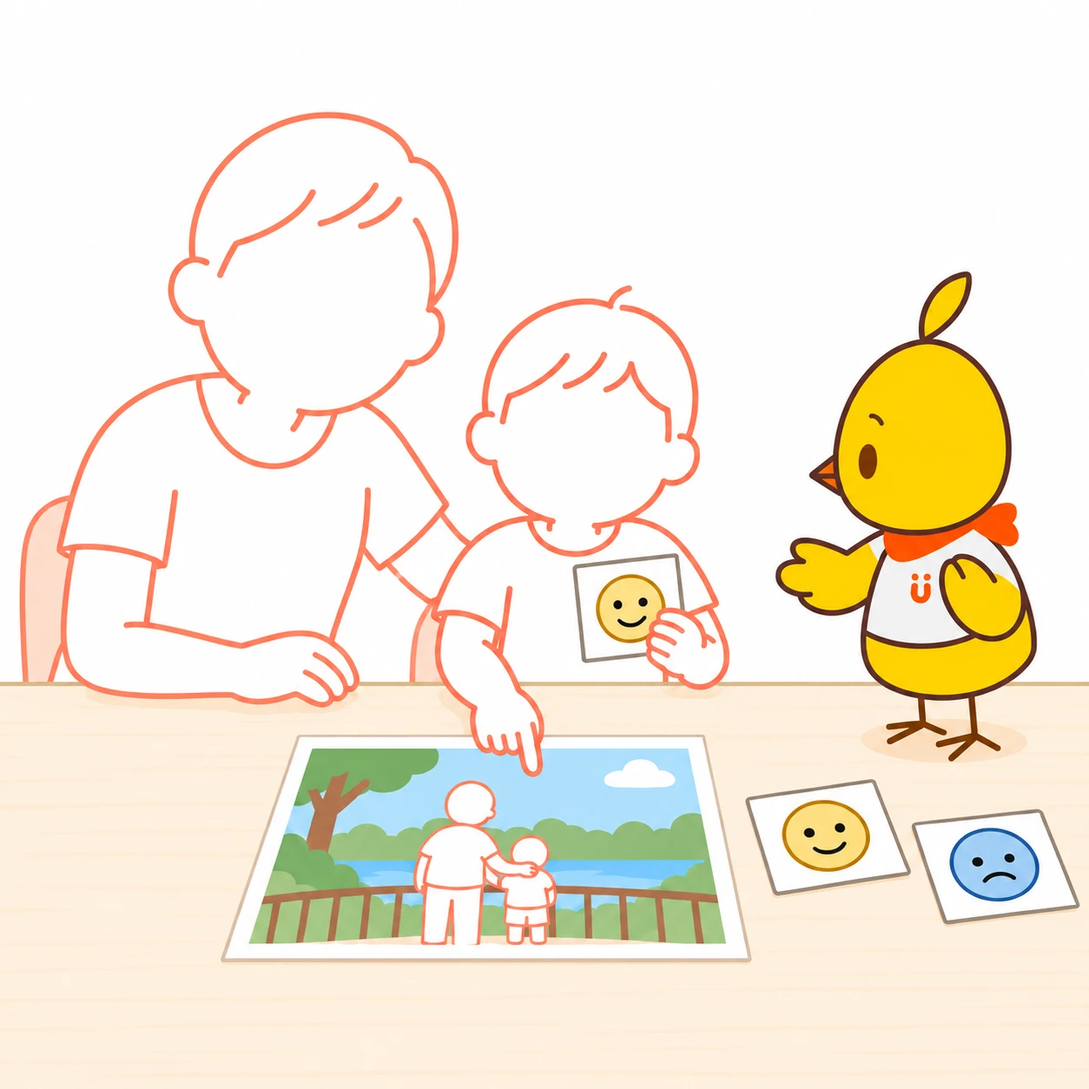
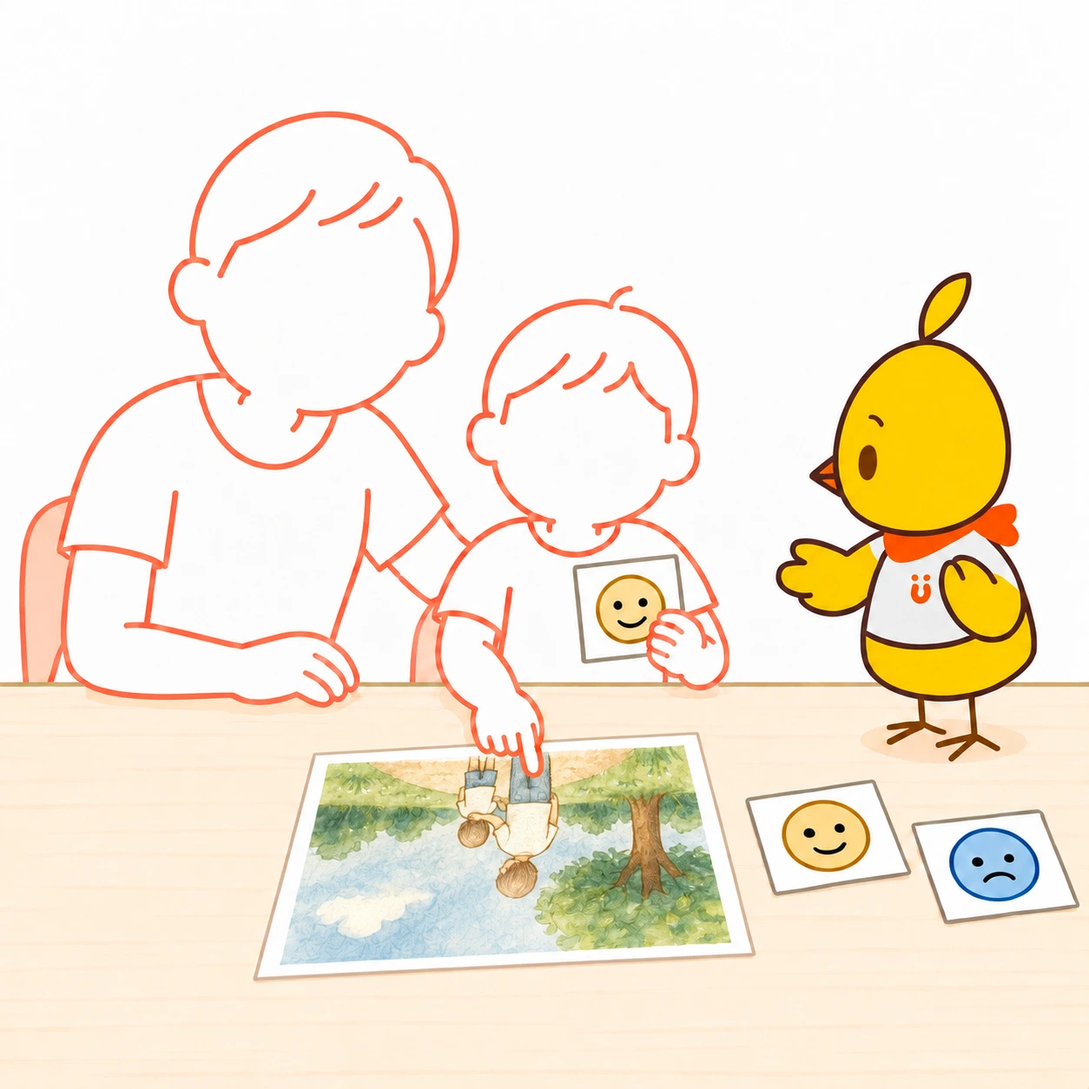
Update Mimo and Luke picture book scene artwork

diff --git a/stories/hello-mimo/index.html b/stories/hello-mimo/index.html
@@ -1,7 +1,7 @@
 <!doctype html><html lang="ja"><head><meta charset="utf-8"><meta name="viewport" content="width=device-width,initial-scale=1"><meta name="theme-color" content="#fffdf9"><meta name="description" content="歌もおしゃべりも大好きなMimo。子どもの声や仕草に耳をすませ、ときには待ちすぎてしまう、自己紹介の絵本。"><title>こんにちは、ミモです。 | HugMap Stories</title><link rel="stylesheet" href="../base.css"><link rel="stylesheet" href="styles.css?3730cc56ad"><link rel="canonical" href="https://withuai.com/stories/hello-mimo/"><meta property="og:title" content="こんにちは、ミモです。 | HugMap Stories"><meta property="og:type" content="website"><link rel="stylesheet" href="../intro-webtoon.css?7066c42a14"></head><body class="webtoon" data-buddy="mimo"><header class="story-header"><a class="brand" href="/stories/">HugMap <span>Stories</span></a><button id="textToggle" aria-pressed="false">文字を大きく</button></header><nav class="progress" aria-label="物語の進み具合"><span id="progressLabel">はじまり</span><span class="track"><span id="progressFill"></span></span><span id="progressCount">0 / 10</span></nav><main><section class="panel cover" id="cover" data-step="0"><div class="copy"><p class="eyebrow">HUGMAP · はじめましての絵本</p><h1>こんにちは、<br><em>ミモ</em>です。</h1><p class="lead">きみのおはなし、<br>聞かせてね。</p><a class="start cover-arrow" href="#scene-1" aria-label="読みはじめる"><span aria-hidden="true">↓</span></a></div><figure><img id="coverMimo" src="assets/mimo-hello.webp" alt="絵本を持ち、片翼を上げてあいさつするMimo" fetchpriority="high" width="1024" height="1536"></figure></section>
-<section class="panel scene rhythm-split tone-1 " id="scene-1" data-step="1"><div class="copy"><p class="eyebrow" aria-label="1ページ">01</p><h2>うたうの、だいすき。</h2><p class="story-text">おしゃべりも、すき。</p></div><figure><img src="assets/mimo-hello.webp" alt="お気に入りの絵本を持ってあいさつするMimo" loading="lazy" width="1024" height="1536"></figure>
+<section class="panel scene rhythm-split tone-1 " id="scene-1" data-step="1"><div class="copy"><p class="eyebrow" aria-label="1ページ">01</p><h2>うたうの、だいすき。</h2><p class="story-text">おしゃべりも、すき。</p></div><figure><img src="assets/mimo-karaoke.webp" alt="マイクを持ち、片翼でリズムを取りながら楽しそうに歌うMimo" loading="lazy" width="1024" height="1536"></figure>
 <div class="story-beat"><p class="story-text">でもね、<br>きみの おはなしが はじまると、<br>もっと 聞きたく なっちゃう。</p></div><a class="next" href="#scene-2" aria-label="次のページへ">↓</a></section>
-<section class="panel scene rhythm-after tone-2 reverse" id="scene-2" data-step="2"><div class="copy"><p class="eyebrow" aria-label="2ページ">02</p><h2>いろんな おはなし、<br>聞こえてくるよ。</h2><p class="story-text">きみが「あー」。<br>わたしも「あー」。</p></div><figure><img src="assets/mimo-voice-pingpong.webp" alt="子どもとMimoの間を、声を表すオレンジの点が行き来する" loading="lazy" width="1254" height="1254"></figure><div class="story-beat"><p class="story-text">こんどは「うー」。<br>わたしも「うー」。<br><br>ふふ。声が いったり、きたり。</p></div>
+<section class="panel scene rhythm-after tone-2 reverse" id="scene-2" data-step="2"><div class="copy"><p class="eyebrow" aria-label="2ページ">02</p><h2>いろんな おはなし、<br>聞こえてくるよ。</h2><p class="story-text">きみが「あー」。<br>わたしも「あー」。</p></div><figure><img src="assets/mimo-voice-pingpong.webp?82cca80c83" alt="子どもとMimoの口元の短い波線が、声を出してまねし合う様子を表す" loading="lazy" width="1254" height="1254"></figure><div class="story-beat"><p class="story-text">こんどは「うー」。<br>わたしも「うー」。<br><br>ふふ。声が いったり、きたり。</p></div>
 <a class="next" href="#scene-imitation" aria-label="次のページへ">↓</a></section>
 <section class="panel scene rhythm-split tone-0" id="scene-imitation" data-step="3"><div class="copy"><p class="eyebrow" aria-label="3ページ">03</p><h2>きみが ばんざい。<br>わたしも ばんざい。</h2><p class="story-text">その うごき、おもしろいね。<br>もういっかい、やってみよう。</p></div><figure><img src="assets/mimo-imitation-arms-up.webp" alt="両手を上げる子どもを見て、ミモも両翼を上げてまねしている" loading="lazy" width="1254" height="1254"></figure>
 <div class="story-beat"><p class="story-text">ふふ。おんなじだね。</p></div><a class="next" href="#scene-3" aria-label="次のページへ">↓</a></section>
@@ -11,7 +11,7 @@
 <div class="story-beat"><p class="story-text">これが いいんだね。<br>いっしょに 読もう。</p></div><a class="next" href="#scene-5" aria-label="次のページへ">↓</a></section>
 <section class="panel scene rhythm-split tone-2 " id="scene-5" data-step="6"><div class="copy"><p class="eyebrow" aria-label="6ページ">06</p><h2>ページを ひらくと。</h2><p class="story-text">きみの ゆびが、ぴたっ。<br>ああ、そこに なにか いたんだね。</p></div><figure class="bubble-art bubble-art-5"><span class="speech-bubble curious" role="note" aria-label="ミモの声：どれ、どれ？">どれ、どれ？</span><img src="assets/mimo-shared-reading.webp" alt="親子が開いた絵本を子どもが指し、隣のMimoも一緒に見ている" loading="lazy" width="1254" height="1254"></figure>
 <div class="story-beat"><p class="story-text">わたしも 見たくて、<br>つい、近づいちゃう。</p></div><a class="next" href="#scene-6" aria-label="次のページへ">↓</a></section>
-<section class="panel scene rhythm-split tone-0 reverse" id="scene-6" data-step="7"><div class="copy"><p class="eyebrow" aria-label="7ページ">07</p><h2>こんどは、<br>きみの おはなし。</h2><p class="story-text">写真も 見せてくれた。<br>「それで？」「そのあと？」</p></div><figure><img src="assets/mimo-experience-feeling.webp" alt="子どもが写真を指し、気持ちのカードを持つ。保護者とMimoが一緒に見る" loading="lazy" width="1254" height="1254"></figure>
+<section class="panel scene rhythm-split tone-0 reverse" id="scene-6" data-step="7"><div class="copy"><p class="eyebrow" aria-label="7ページ">07</p><h2>こんどは、<br>きみの おはなし。</h2><p class="story-text">写真も 見せてくれた。<br>「それで？」「そのあと？」</p></div><figure><img src="assets/mimo-experience-feeling.webp?69d5510f14" alt="子どもが写真を指し、気持ちのカードを持つ。保護者とMimoが一緒に見る" loading="lazy" width="1254" height="1254"></figure>
 <div class="story-beat"><p class="story-text">……おっと。<br>きみは、まだ 伝えている とちゅう。<br>わたしは、ちょっと 待とう。</p></div><a class="next" href="#scene-7" aria-label="次のページへ">↓</a></section>
 <section class="panel scene rhythm-pause tone-1 " id="scene-7" data-step="8"><div class="copy"><p class="eyebrow" aria-label="8ページ">08</p><h2>おはなしの あとは、<br>もういちど 絵本。</h2><p class="story-text">わたしは、のんびり 待っていた。<br>絵本は、まだ 閉じたまま。</p></div><figure class="bubble-art bubble-art-7"><span class="thought-bubble thought-first" role="note" aria-label="ミモの心の声：まだかな……">まだかな……</span><span class="thought-bubble thought-second" role="note" aria-label="ミモの心の声：もうすこし……">もうすこし……</span><img src="assets/mimo-wait-too-long.webp" alt="閉じた絵本を脇に置いたまま、椅子で翼を重ねてのんびり待っているMimo" loading="lazy" width="1536" height="1024"></figure>
 <div class="story-beat"><p class="story-text">あれ？<br>きみも、待ってるの？</p></div><a class="next" href="#scene-8" aria-label="次のページへ">↓</a></section>
@@ -19,4 +19,4 @@
 <div class="copy"><p class="eyebrow" aria-label="9ページ">09</p><h2>ふふ。<br>待ちすぎちゃった。</h2><p class="story-text">わたしが 読むのを、<br>待っていて くれたんだね。<br><br>絵本を ひらいて――<br>では、はじまり はじまり。</p></div><a class="next" href="#scene-9" aria-label="次のページへ">↓</a></section>
 <section class="panel scene rhythm-after tone-0 " id="scene-9" data-step="10"><div class="copy"><p class="eyebrow" aria-label="10ページ">10</p><h2>わたしの おはなし、<br>聞いてくれて ありがとう。</h2></div><figure><img src="assets/mimo-shared-reading.webp" alt="親子とMimoが一冊の絵本を囲んでいる" loading="lazy" width="1254" height="1254"></figure>
 <div class="story-beat"><p class="story-text">声でも、ゆびでも、しぐさでも。<br>きみの おはなし、<br>また 聞かせてね。</p></div><a class="next" href="#afterword" aria-label="次のページへ">↓</a></section>
-<section class="afterword" id="afterword" data-step="11"><p class="eyebrow">おはなしの あとに</p><h2>ことばになる前の「伝えたい」も、<br>いっしょに。</h2><p>Mimoは、子どもが大好き。声をまねしたり、同じものを見つけたり、一緒に笑ったり。そんなやりとりがうれしくて、もっと知りたくなります。声も、視線も、仕草も、その子の気持ちに出会う入り口です。</p><p>「いつ、お話ししてくれるかな」。待ち遠しくて、焦る日もあります。そんなときは、言えたことばだけでなく、こちらを見たこと、指で教えてくれたこと、一緒に楽しめたことにも目を向けてみませんか。ことばの育ちには、それぞれの時間があります。今日の小さなやりとりも、大切なひとときです。</p><p>Mimoは、ちょっとのんきに見えるかもしれません。でも、一緒に笑ったこと、声をかけ合ったこと、その一つひとつが、その子らしい「伝えたい」の芽を育むと信じています。小さな応答を見つけるたびに、うれしくなるMimo。「今日は、こんなお話ができたね」。そんな喜びを、子どもとも、おうちの人とも、分かち合っていきたいのです。</p><div class="end-links"><a href="/stories/">絵本の一覧へ</a><a href="/#wv-discover">HugMapでできること →</a><a class="start" href="#cover">もういちど読む ↑</a><a href="../hello-luke/index.html#cover">ルークの自己紹介へ →</a><a href="../hello-gen/index.html#cover">ゲンの自己紹介へ →</a></div><p class="colophon">HugMap Stories · Mimoの自己紹介</p></section></main><script src="paper-cutout.js"></script><script src="story.js"></script></body></html>
+<section class="afterword" id="afterword" data-step="11"><p class="eyebrow">おはなしの あとに</p><h2>ことばになる前の「伝えたい」も、<br>いっしょに。</h2><p>Mimoは、子どもが大好き。声をまねしたり、同じものを見つけたり、一緒に笑ったり。そんなやりとりがうれしくて、もっと知りたくなります。声も、視線も、仕草も、その子の気持ちに出会う入り口です。</p><p>「いつ、お話ししてくれるかな」。待ち遠しくて、焦る日もあります。そんなときは、言えたことばだけでなく、こちらを見たこと、指で教えてくれたこと、一緒に楽しめたことにも目を向けてみませんか。ことばの育ちには、それぞれの時間があります。今日の小さなやりとりも、大切なひとときです。</p><p>Mimoは、ちょっとのんきに見えるかもしれません。でも、一緒に笑ったこと、声をかけ合ったこと、その一つひとつが、その子らしい「伝えたい」の芽を育むと信じています。小さな応答を見つけるたびに、うれしくなるMimo。「今日は、こんなお話ができたね」。そんな喜びを、子どもとも、おうちの人とも、分かち合っていきたいのです。</p><div class="end-links"><a href="/stories/">絵本の一覧へ</a><a href="/#wv-discover">HugMapでできること →</a><a class="start" href="#cover">もういちど読む ↑</a><a href="../hello-luke/index.html#cover">ルークの自己紹介へ →</a><a href="../hello-gen/index.html#cover">ゲンの自己紹介へ →</a></div><p class="colophon">HugMap Stories · Mimoの自己紹介</p></section></main><script src="paper-cutout.js?ddc414cf6f"></script><script src="story.js"></script></body></html>

diff --git a/en/stories/hello-mimo/index.html b/en/stories/hello-mimo/index.html
@@ -1,7 +1,7 @@
 <!doctype html><html lang="en"><head><meta charset="utf-8"><meta name="viewport" content="width=device-width,initial-scale=1"><meta name="theme-color" content="#fffdf9"><meta name="description" content="Meet Mimo, who loves songs, conversation and listening to children—and sometimes waits a little too long."><title>Hello, I’m Mimo. | HugMap Stories</title><link rel="stylesheet" href="../../../stories/base.css"><link rel="stylesheet" href="../../../stories/hello-mimo/styles.css?3730cc56ad"><link rel="stylesheet" href="../intro-english.css"><link rel="canonical" href="https://withuai.com/en/stories/hello-mimo/"><link rel="alternate" hreflang="en" href="https://withuai.com/en/stories/hello-mimo/"><link rel="alternate" hreflang="ja" href="https://withuai.com/stories/hello-mimo/"><link rel="stylesheet" href="../../../stories/intro-webtoon.css?7066c42a14"></head><body class="webtoon" data-buddy="mimo"><header class="story-header"><a class="brand" href="../">HugMap <span>Stories</span></a><a class="language-link" href="../../../stories/hello-mimo/index.html" lang="ja" aria-label="Read in Japanese">日本語</a><button id="textToggle" aria-pressed="false">Larger text</button></header><nav class="progress" aria-label="Story progress"><span id="progressLabel">Start</span><span class="track"><span id="progressFill"></span></span><span id="progressCount">0 / 10</span></nav><main><section class="panel cover" id="cover" data-step="0"><div class="copy"><p class="eyebrow">HUGMAP · MEET THE BUDDIES</p><h1>Hello,<br>I’m <em>Mimo</em>.</h1><p class="lead">I’d love to hear<br>what you have to say.</p><a class="start cover-arrow" href="#scene-1" aria-label="Start reading"><span aria-hidden="true">↓</span></a></div><figure><img id="coverMimo" src="../../../stories/hello-mimo/assets/mimo-hello.webp" alt="Mimo waves hello while holding a picture book." fetchpriority="high" width="1024" height="1536"></figure></section>
-<section class="panel scene rhythm-split tone-1 " id="scene-1" data-step="1"><div class="copy"><p class="eyebrow" aria-label="Page 1">01</p><h2>I love a good song.</h2><p class="story-text">And a good chat, too.<br>But do you know what I love most?</p></div><figure><img src="../../../stories/hello-mimo/assets/mimo-hello.webp" alt="Mimo greets us with a favourite picture book." loading="lazy" width="1024" height="1536"></figure>
+<section class="panel scene rhythm-split tone-1 " id="scene-1" data-step="1"><div class="copy"><p class="eyebrow" aria-label="Page 1">01</p><h2>I love a good song.</h2><p class="story-text">And a good chat, too.<br>But do you know what I love most?</p></div><figure><img src="../../../stories/hello-mimo/assets/mimo-karaoke.webp" alt="Mimo sings happily into a microphone, keeping the beat with one wing." loading="lazy" width="1024" height="1536"></figure>
 <div class="story-beat"><p class="story-text">Listening to you.</p></div><a class="next" href="#scene-2" aria-label="Next page">↓</a></section>
-<section class="panel scene rhythm-after tone-2 reverse" id="scene-2" data-step="2"><div class="copy"><p class="eyebrow" aria-label="Page 2">02</p><h2>You say, “Ahh!”</h2><p class="story-text">“Ahh!” I say back.<br>Then you say, “Ooh!”<br>“Ooh!” I say.</p></div><figure><img src="../../../stories/hello-mimo/assets/mimo-voice-pingpong.webp" alt="Orange dots carry sounds back and forth between Mimo and a child." loading="lazy" width="1254" height="1254"></figure><div class="story-beat"><p class="story-text">We’re having a little chat<br>of our own.</p></div>
+<section class="panel scene rhythm-after tone-2 reverse" id="scene-2" data-step="2"><div class="copy"><p class="eyebrow" aria-label="Page 2">02</p><h2>You say, “Ahh!”</h2><p class="story-text">“Ahh!” I say back.<br>Then you say, “Ooh!”<br>“Ooh!” I say.</p></div><figure><img src="../../../stories/hello-mimo/assets/mimo-voice-pingpong.webp?82cca80c83" alt="Short curved sound waves beside the child’s mouth and Mimo’s beak show them taking turns making sounds." loading="lazy" width="1254" height="1254"></figure><div class="story-beat"><p class="story-text">We’re having a little chat<br>of our own.</p></div>
 <a class="next" href="#scene-imitation" aria-label="Next page">↓</a></section>
 <section class="panel scene rhythm-split tone-0" id="scene-imitation" data-step="3"><div class="copy"><p class="eyebrow" aria-label="Page 3">03</p><h2>Up go your arms.<br>Up go my wings!</h2><p class="story-text">I can do that too!<br>Shall we do it again?</p></div><figure><img src="../../../stories/hello-mimo/assets/mimo-imitation-arms-up.webp" alt="Mimo raises both wings to copy a child raising both arms." loading="lazy" width="1254" height="1254"></figure>
 <div class="story-beat"><p class="story-text">There we go—together!</p></div><a class="next" href="#scene-3" aria-label="Next page">↓</a></section>
@@ -11,7 +11,7 @@
 <div class="story-beat"><p class="story-text">A story it is!<br>Let’s read it together.</p></div><a class="next" href="#scene-5" aria-label="Next page">↓</a></section>
 <section class="panel scene rhythm-split tone-2 " id="scene-5" data-step="6"><div class="copy"><p class="eyebrow" aria-label="Page 6">06</p><h2>Ooh, what’s on this page?</h2><p class="story-text">You point to something in the book.<br>I lean in for a closer look.</p></div><figure class="bubble-art bubble-art-5"><span class="speech-bubble curious" role="note" aria-label="Mimo says: What’s that?">What’s that?</span><img src="../../../stories/hello-mimo/assets/mimo-shared-reading.webp" alt="A child points into an open book shared with a parent and Mimo." loading="lazy" width="1254" height="1254"></figure>
 <div class="story-beat"><p class="story-text">Now you’ve got me curious!</p></div><a class="next" href="#scene-6" aria-label="Next page">↓</a></section>
-<section class="panel scene rhythm-split tone-0 reverse" id="scene-6" data-step="7"><div class="copy"><p class="eyebrow" aria-label="Page 7">07</p><h2>You have a story, too.</h2><p class="story-text">You show me a photo.<br>I want to know all about it.<br>“And then?” I ask. “What happened next?”</p></div><figure><img src="../../../stories/hello-mimo/assets/mimo-experience-feeling.webp" alt="A child shares a photo and a feelings card with a parent and Mimo." loading="lazy" width="1254" height="1254"></figure>
+<section class="panel scene rhythm-split tone-0 reverse" id="scene-6" data-step="7"><div class="copy"><p class="eyebrow" aria-label="Page 7">07</p><h2>You have a story, too.</h2><p class="story-text">You show me a photo.<br>I want to know all about it.<br>“And then?” I ask. “What happened next?”</p></div><figure><img src="../../../stories/hello-mimo/assets/mimo-experience-feeling.webp?69d5510f14" alt="A child shares a photo and a feelings card with a parent and Mimo." loading="lazy" width="1254" height="1254"></figure>
 <div class="story-beat"><p class="story-text">Oops, you weren’t finished.<br>Take your time. I’m listening.</p></div><a class="next" href="#scene-7" aria-label="Next page">↓</a></section>
 <section class="panel scene rhythm-pause tone-1 " id="scene-7" data-step="8"><div class="copy"><p class="eyebrow" aria-label="Page 8">08</p><h2>Shall we read some more?</h2><p class="story-text">I settle into my chair.<br>And wait.<br>And wait.<br>The book is still closed.</p></div><figure class="bubble-art bubble-art-7"><span class="thought-bubble thought-first" role="note" aria-label="Mimo thinks: Any moment now…">Any moment now…</span><span class="thought-bubble thought-second" role="note" aria-label="Mimo thinks: No hurry…">No hurry…</span><img src="../../../stories/hello-mimo/assets/mimo-wait-too-long.webp" alt="Mimo waits in a chair with wings folded and a closed book beside her." loading="lazy" width="1536" height="1024"></figure><div class="story-beat"><p class="story-text">Hmm…<br>Are you waiting too?</p></div>
 <a class="next" href="#scene-8" aria-label="Next page">↓</a></section>
@@ -19,4 +19,4 @@
 <div class="copy"><p class="eyebrow" aria-label="Page 9">09</p><h2>Oh! You’re waiting<br>for me!</h2><p class="story-text">There I was, waiting for you,<br>when it was my turn all along.<br><br>I open the book and begin.<br>“Once upon a time…”</p></div><a class="next" href="#scene-9" aria-label="Next page">↓</a></section>
 <section class="panel scene rhythm-after tone-0 " id="scene-9" data-step="10"><div class="copy"><p class="eyebrow" aria-label="Page 10">10</p><h2>Thanks for listening!</h2></div><figure><img src="../../../stories/hello-mimo/assets/mimo-shared-reading.webp" alt="Mimo, a child and a parent gather around a picture book." loading="lazy" width="1254" height="1254"></figure>
 <div class="story-beat"><p class="story-text">A sound, a look, a little wave…<br>You don’t have to use words.<br><br>Whatever you want to share,<br>I’m here to listen.</p></div><a class="next" href="#afterword" aria-label="Next page">↓</a></section>
-<section class="afterword" id="afterword" data-step="11"><p class="eyebrow">A note for grown-ups</p><h2>Little moments.<br>So much to share.</h2><p>Mimo loves being with children: copying their sounds, following a pointing finger and sharing a laugh. She is curious about what each child has to say, whether they use words, sounds or gestures.</p><p>If you’re wondering when your child will start talking, the wait can feel long. It can help to notice the conversations already happening: a glance your way, a finger pointing something out, a laugh you share. Those moments are worth enjoying in their own right.</p><p>Mimo can be so relaxed that she forgets it’s her turn. But beneath that easygoing manner is a quiet belief in the value of connecting, a little at a time. Every small response gives her something to smile about—and something to celebrate with you.</p><div class="end-links"><a class="start" href="#cover">Read again ↑</a><a href="../hello-luke/index.html#cover">Meet Luke →</a><a href="../hello-gen/index.html#cover">Meet Gen →</a></div><p class="colophon">HugMap Stories · Meet Mimo</p></section></main><script src="../../../stories/hello-mimo/paper-cutout.js"></script><script src="../intro-story.js"></script></body></html>
+<section class="afterword" id="afterword" data-step="11"><p class="eyebrow">A note for grown-ups</p><h2>Little moments.<br>So much to share.</h2><p>Mimo loves being with children: copying their sounds, following a pointing finger and sharing a laugh. She is curious about what each child has to say, whether they use words, sounds or gestures.</p><p>If you’re wondering when your child will start talking, the wait can feel long. It can help to notice the conversations already happening: a glance your way, a finger pointing something out, a laugh you share. Those moments are worth enjoying in their own right.</p><p>Mimo can be so relaxed that she forgets it’s her turn. But beneath that easygoing manner is a quiet belief in the value of connecting, a little at a time. Every small response gives her something to smile about—and something to celebrate with you.</p><div class="end-links"><a class="start" href="#cover">Read again ↑</a><a href="../hello-luke/index.html#cover">Meet Luke →</a><a href="../hello-gen/index.html#cover">Meet Gen →</a></div><p class="colophon">HugMap Stories · Meet Mimo</p></section></main><script src="../../../stories/hello-mimo/paper-cutout.js?ddc414cf6f"></script><script src="../intro-story.js"></script></body></html>

diff --git a/stories/hello-luke/index.html b/stories/hello-luke/index.html
@@ -2,7 +2,7 @@
 <html lang="ja"><head><meta charset="utf-8"><meta name="viewport" content="width=device-width,initial-scale=1"><meta name="theme-color" content="#fffdf9"><meta name="description" content="考えるのも、試すのも大好きなLuke。子どもの手元を観察し、道具を試し、ときには夢中になりすぎて考え直す、自己紹介の絵本。"><title>こんにちは、ルークです。 | HugMap Stories</title><link rel="stylesheet" href="styles.css?theme=soft-paper"><link rel="canonical" href="https://withuai.com/stories/hello-luke/"><meta property="og:title" content="こんにちは、ルークです。 | HugMap Stories"><meta property="og:type" content="website"><link rel="stylesheet" href="../intro-webtoon.css?7066c42a14"></head>
 <body class="webtoon" data-buddy="luke"><header class="story-header"><a class="brand" href="/stories/">HugMap <span>Stories</span></a><button id="textToggle" type="button" aria-pressed="false">文字を大きく</button></header><nav class="progress" aria-label="物語の進み具合"><span id="progressLabel">はじまり</span><span class="track"><span id="progressFill"></span></span><span id="progressCount">0 / 10</span></nav><main>
 <section class="panel cover" id="cover" data-step="0"><div class="copy"><p class="eyebrow">HUGMAP · はじめましての絵本</p><h1>こんにちは、<br><em>ルーク</em>です。</h1><p class="lead">どうしたら、やりやすいかな。<br>いっしょに 考えよう。</p><a class="start cover-arrow" href="#scene-hello" aria-label="読みはじめる"><span aria-hidden="true">↓</span></a></div><figure><img data-paper-wash data-paper-clean data-paper-edge=".001" src="assets/luke-hello.webp" alt="積み木を持ち、眼鏡に手を添えて考えるLuke" width="1024" height="1536" fetchpriority="high"></figure></section>
-<section class="panel scene " id="scene-hello" data-step="1"><div class="copy"><p class="eyebrow" aria-label="1ページ">01</p><h2>なにを つくろうかな。</h2><p class="story-text">ひとつ のせて、もうひとつ。<br>つくるのも、ためすのも、だいすき。</p></div><figure class="bubble-art"><span class="bubble thought" role="note" aria-label="ルークの心の声：こんどは、どうしよう。">こんどは、<br>どうしよう。</span><img data-paper-wash data-paper-clean data-paper-edge=".001" src="assets/luke-hello.webp" alt="眼鏡に手を添え、積み木を持って首をかしげるLuke" width="1024" height="1536" loading="lazy"></figure><a class="next" href="#scene-eat-myself" aria-label="次のページへ">↓</a></section>
+<section class="panel scene " id="scene-hello" data-step="1"><div class="copy"><p class="eyebrow" aria-label="1ページ">01</p><h2>なにを つくろうかな。</h2><p class="story-text">ひとつ のせて、もうひとつ。<br>つくるのも、ためすのも、だいすき。</p></div><figure class="bubble-art"><span class="bubble thought" role="note" aria-label="ルークの心の声：こんどは、どうしよう。">こんどは、<br>どうしよう。</span><img src="assets/luke-building-blocks.webp" alt="床に座り、積み木の橋を支えながら上にひとつ積むLuke" width="1254" height="1254" loading="lazy"></figure><a class="next" href="#scene-eat-myself" aria-label="次のページへ">↓</a></section>
 <section class="panel scene rhythm-split reverse" id="scene-eat-myself" data-step="2"><div class="copy"><p class="eyebrow" aria-label="2ページ">02</p><h2>じぶんで、食べたい。</h2><p class="story-text">きみが、スプーンを 手にとった。<br>すくおうとすると、お皿が すーっ。</p></div><figure class="bubble-art"><span class="bubble thought" role="note" aria-label="ルークの心の声：どこがむずかしいかな。">どこが<br>むずかしいかな。</span><img data-paper-wash data-paper-clean data-paper-edge=".06" src="assets/luke-meal-slide.webp" alt="スプーンですくおうとすると皿が動き、Lukeが皿の下を観察する" width="1254" height="1254" loading="lazy"></figure>
 <div class="story-beat"><p class="story-text">もういちど。……また、すーっ。<br>きみの 手が、とまった。</p></div><a class="next" href="#scene-grip" aria-label="次のページへ">↓</a></section>
 <section class="panel scene " id="scene-grip" data-step="3"><div class="copy"><p class="eyebrow" aria-label="3ページ">03</p><h2>その手、<br>よーく 見せてね。</h2><p class="story-text">きみが、もういちど<br>スプーンを ぎゅっ。<br>ぼくは、その手を 目で追う。</p></div><figure class="bubble-art observation-art"><div class="observation-thoughts"><span class="bubble thought" role="note" aria-label="ルークの心の声：ゆびは、どこに添えているかな。">ゆびは、どこに<br>添えているかな。</span><span class="bubble thought" role="note" aria-label="ルークの心の声：持ち続けて、疲れないかな。">持ち続けて、<br>疲れないかな。</span></div><img data-paper-wash data-paper-clean data-paper-edge=".06" src="assets/luke-meal-grip.webp" alt="Lukeが子どものスプーンを握る手を観察する。拡大図で手のひらと指、手首の様子が見える" width="1254" height="1254" loading="lazy"></figure><a class="next" href="#scene-observe" aria-label="次のページへ">↓</a></section>

diff --git a/en/stories/hello-luke/index.html b/en/stories/hello-luke/index.html
@@ -2,7 +2,7 @@
 <html lang="en"><head><meta charset="utf-8"><meta name="viewport" content="width=device-width,initial-scale=1"><meta name="theme-color" content="#fffdf9"><meta name="description" content="Meet Luke, a curious inventor who watches, adapts tools and tries again to help children do things for themselves."><title>Hello, I’m Luke. | HugMap Stories</title><link rel="stylesheet" href="../../../stories/hello-luke/styles.css?theme=soft-paper"><link rel="stylesheet" href="../intro-english.css"><link rel="canonical" href="https://withuai.com/en/stories/hello-luke/"><link rel="alternate" hreflang="en" href="https://withuai.com/en/stories/hello-luke/"><link rel="alternate" hreflang="ja" href="https://withuai.com/stories/hello-luke/"><link rel="stylesheet" href="../../../stories/intro-webtoon.css?7066c42a14"></head>
 <body class="webtoon" data-buddy="luke"><header class="story-header"><a class="brand" href="../">HugMap <span>Stories</span></a><a class="language-link" href="../../../stories/hello-luke/index.html" lang="ja" aria-label="Read in Japanese">日本語</a><button id="textToggle" type="button" aria-pressed="false">Larger text</button></header><nav class="progress" aria-label="Story progress"><span id="progressLabel">Start</span><span class="track"><span id="progressFill"></span></span><span id="progressCount">0 / 10</span></nav><main>
 <section class="panel cover" id="cover" data-step="0"><div class="copy"><p class="eyebrow">HUGMAP · MEET THE BUDDIES</p><h1>Hello,<br>I’m <em>Luke</em>.</h1><p class="lead">A little change might help.<br>Let’s try it together.</p><a class="start cover-arrow" href="#scene-hello" aria-label="Start reading"><span aria-hidden="true">↓</span></a></div><figure><img data-paper-wash data-paper-clean data-paper-edge=".001" src="../../../stories/hello-luke/assets/luke-hello.webp" alt="Luke holds a block and touches his glasses." width="1024" height="1536" fetchpriority="high"></figure></section>
-<section class="panel scene " id="scene-hello" data-step="1"><div class="copy"><p class="eyebrow" aria-label="Page 1">01</p><h2>I wonder what I could make…</h2><p class="story-text">One block on top of another.<br>Hmm. What if I put this one here?<br><br>I love building things<br>and trying out ideas.</p></div><figure class="bubble-art"><span class="bubble thought" role="note" aria-label="Luke thinks: What next?">What next?</span><img data-paper-wash data-paper-clean data-paper-edge=".001" src="../../../stories/hello-luke/assets/luke-hello.webp" alt="Luke holds a block and touches his glasses, thinking." width="1024" height="1536" loading="lazy"></figure><a class="next" href="#scene-eat-myself" aria-label="Next page">↓</a></section>
+<section class="panel scene " id="scene-hello" data-step="1"><div class="copy"><p class="eyebrow" aria-label="Page 1">01</p><h2>I wonder what I could make…</h2><p class="story-text">One block on top of another.<br>Hmm. What if I put this one here?<br><br>I love building things<br>and trying out ideas.</p></div><figure class="bubble-art"><span class="bubble thought" role="note" aria-label="Luke thinks: What next?">What next?</span><img src="../../../stories/hello-luke/assets/luke-building-blocks.webp" alt="Luke sits beside wooden blocks, carefully placing a cube on a small bridge." width="1254" height="1254" loading="lazy"></figure><a class="next" href="#scene-eat-myself" aria-label="Next page">↓</a></section>
 <section class="panel scene rhythm-split reverse" id="scene-eat-myself" data-step="2"><div class="copy"><p class="eyebrow" aria-label="Page 2">02</p><h2>You reach for the spoon.</h2><p class="story-text">You try to scoop up a bite.<br>But the plate slides away.</p></div><figure class="bubble-art"><span class="bubble thought" role="note" aria-label="Luke thinks: What could make this easier?">What could make<br>this easier?</span><img data-paper-wash data-paper-clean data-paper-edge=".06" src="../../../stories/hello-luke/assets/luke-meal-slide.webp" alt="Luke watches the plate slide as a child tries to scoop with a spoon." width="1254" height="1254" loading="lazy"></figure><div class="story-beat"><p class="story-text">You try again.<br>There it goes—again!<br><br>I lean in for a closer look.</p></div>
 <a class="next" href="#scene-grip" aria-label="Next page">↓</a></section>
 <section class="panel scene " id="scene-grip" data-step="3"><div class="copy"><p class="eyebrow" aria-label="Page 3">03</p><h2>I watch your hand.</h2><p class="story-text">As you try again,<br>I watch how you hold the spoon<br>and move it across the plate.</p></div><figure class="bubble-art observation-art"><div class="observation-thoughts"><span class="bubble thought" role="note" aria-label="Luke thinks: How are you holding the spoon?">How are you holding<br>the spoon?</span><span class="bubble thought" role="note" aria-label="Luke thinks: Is your hand getting tired?">Is your hand<br>getting tired?</span></div><img data-paper-wash data-paper-clean data-paper-edge=".06" src="../../../stories/hello-luke/assets/luke-meal-grip.webp" alt="Luke observes the child’s grip. A close-up shows the palm, fingers and wrist." width="1254" height="1254" loading="lazy"></figure><a class="next" href="#scene-observe" aria-label="Next page">↓</a></section>

diff --git a/stories/hello-mimo/paper-cutout.js b/stories/hello-mimo/paper-cutout.js
@@ -12,19 +12,31 @@ for (const img of document.querySelectorAll('.panel figure img')) {
     const frame = ctx.getImageData(0, 0, canvas.width, canvas.height);
     const {data} = frame;
     const w = canvas.width, h = canvas.height;
+    const croppedChild = img.src.includes('mimo-voice-pingpong');
+    const childEdge = new Int32Array(h).fill(-1);
+    if (croppedChild) {
+      for(let y=Math.floor(h*.24);y<h;y++) {
+        for(let x=0;x<Math.floor(w*.49);x++) {
+          const i=(y*w+x)*4;
+          if(data[i]>180 && data[i]-data[i+1]>45 && data[i+1]-data[i+2]>10) childEdge[y]=x;
+        }
+      }
+    }
     const seen = new Uint8Array(w*h);
     const queue = new Int32Array(w*h);
     let head = 0, tail = 0;
     const visit = (p) => {
-      if (seen[p]) return;
+      if (seen[p] || (croppedChild && p%w<=childEdge[Math.floor(p/w)])) return;
       seen[p] = 1;
       const i = p*4;
       const lo = Math.min(data[i],data[i+1],data[i+2]);
       const hi = Math.max(data[i],data[i+1],data[i+2]);
       if (data[i+3] < 8 || (lo > 224 && hi-lo < 24)) queue[tail++] = p;
     };
-    for (let x=0;x<w;x++) {visit(x);visit((h-1)*w+x);}
-    for (let y=0;y<h;y++) {visit(y*w);visit(y*w+w-1);}
+    // The close-up child is cropped at the left and lower edges.
+    // Those edges are inside the silhouette, not exterior paper.
+    for (let x=0;x<w;x++) {visit(x);if (!croppedChild || x>w*.5) visit((h-1)*w+x);}
+    for (let y=0;y<h;y++) {if (!croppedChild) visit(y*w);visit(y*w+w-1);}
     while (head < tail) {
       const p = queue[head++];
       data[p*4+3] = 0;
